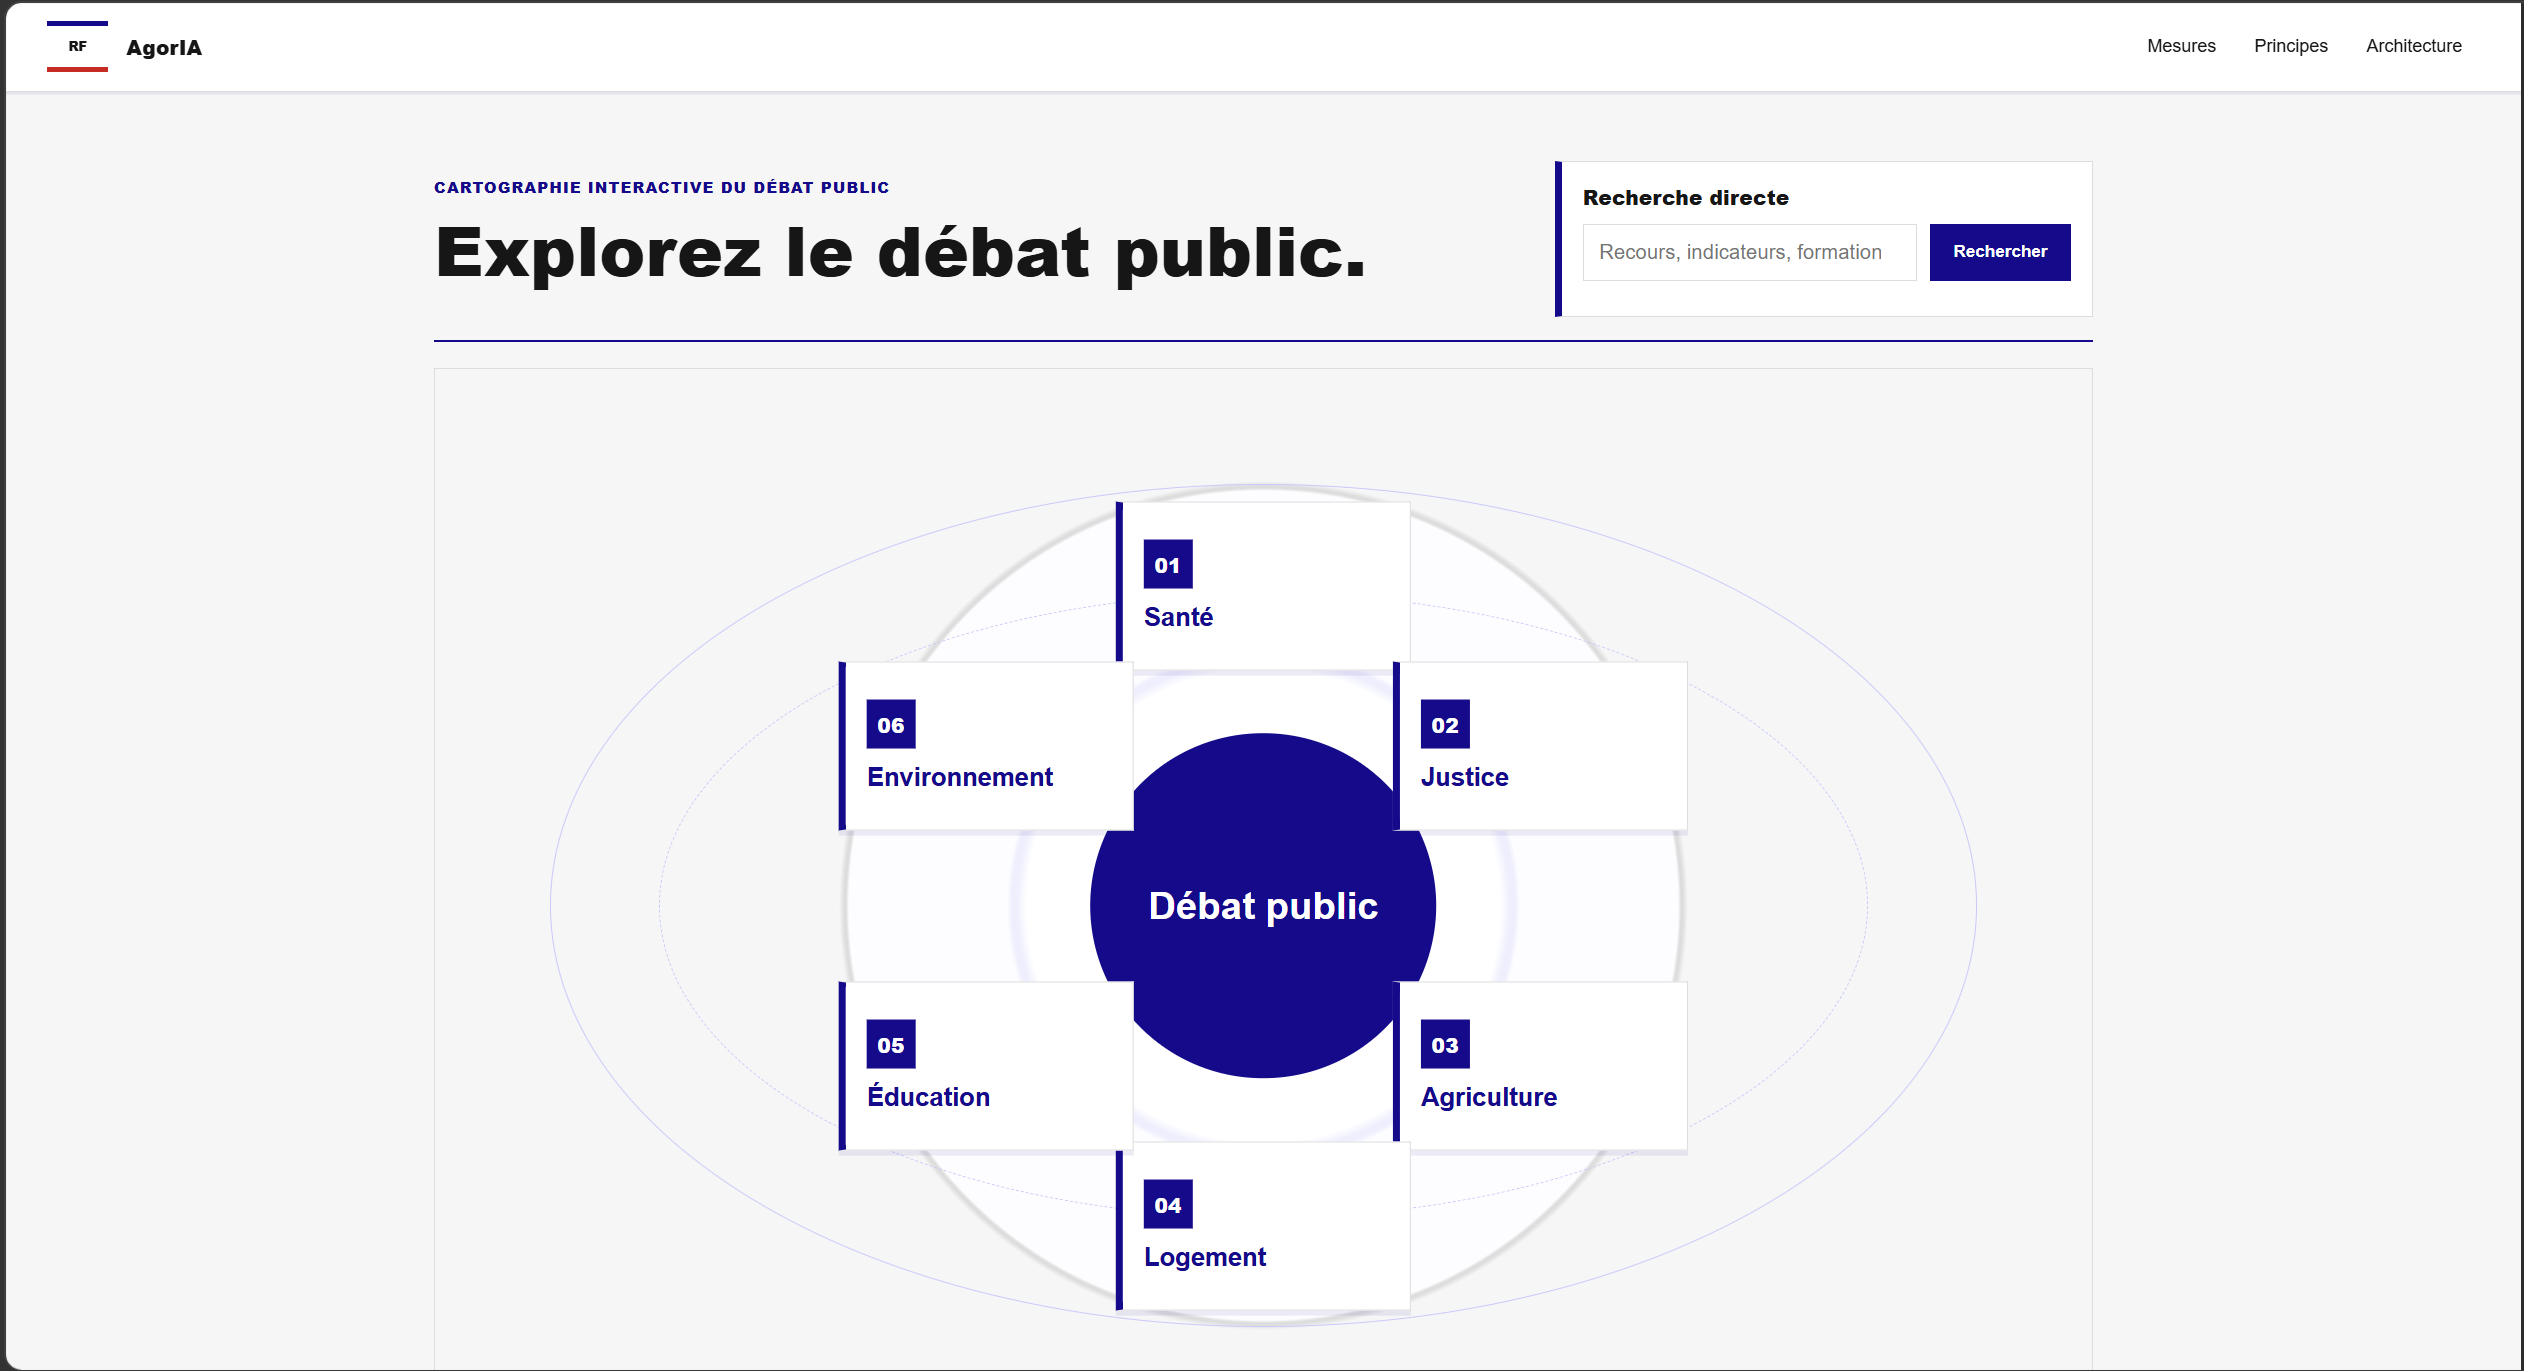
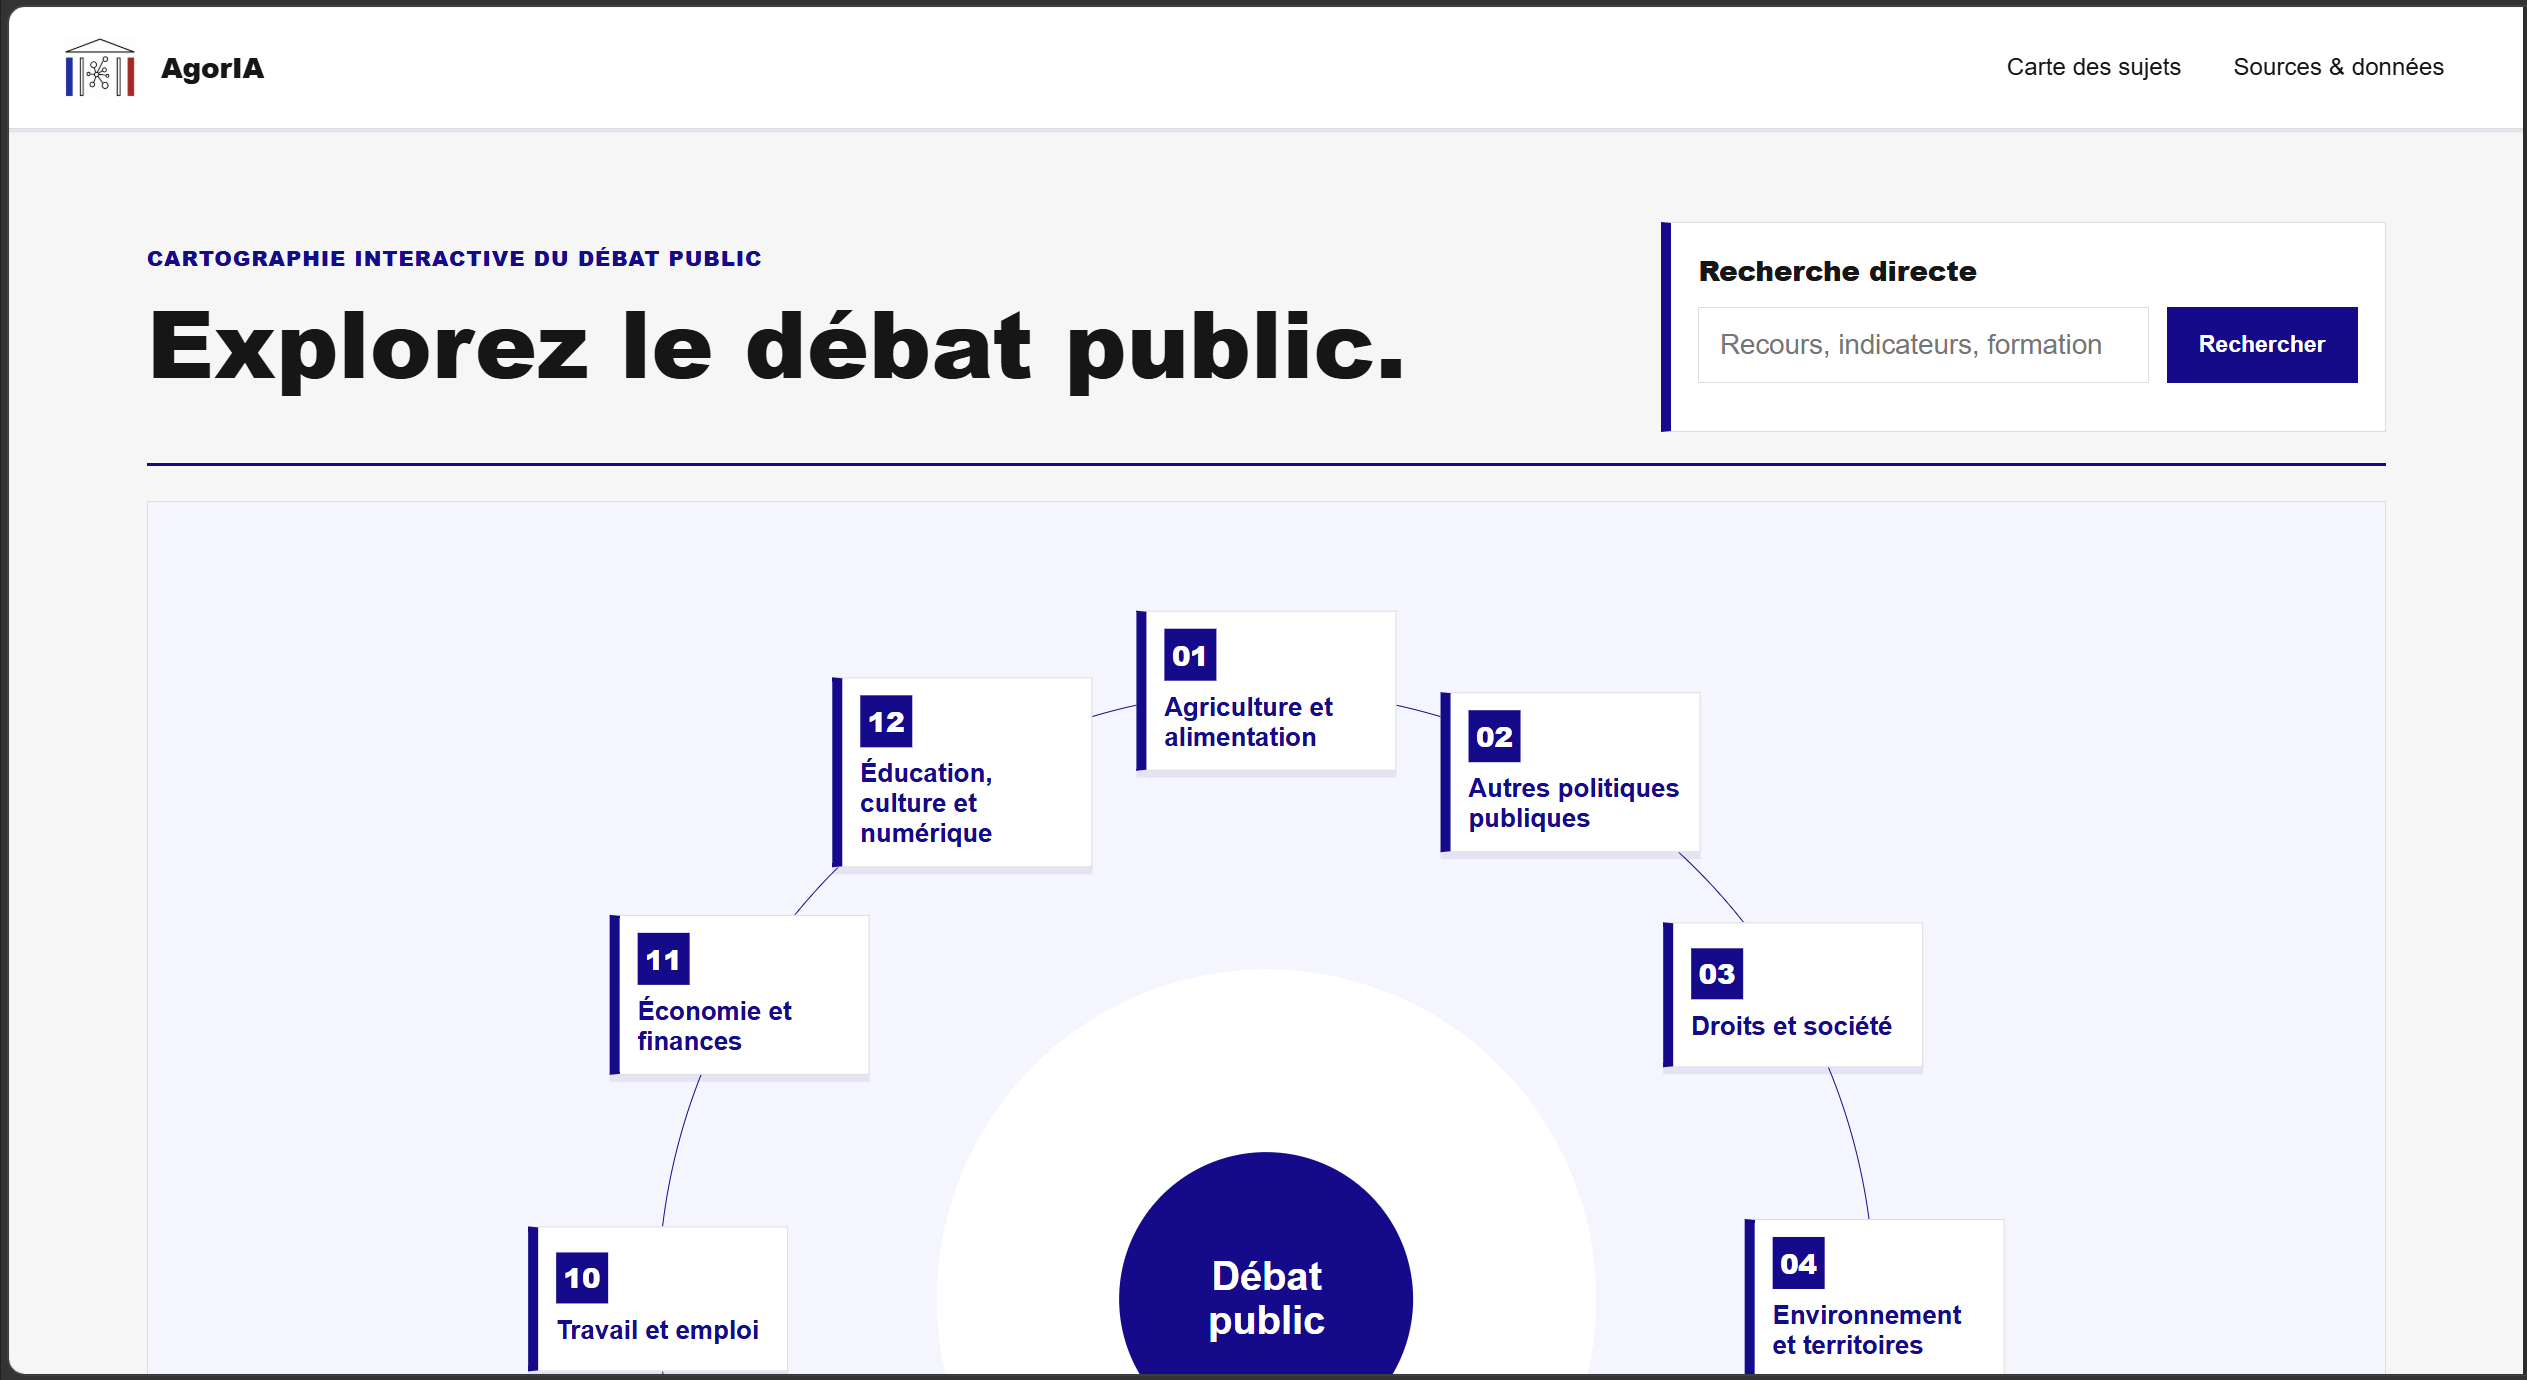
added cover in README

diff --git a/README.md b/README.md
@@ -1,5 +1,9 @@
 # AgorIA
 
+<p align="center">
+  <img src="images/cover.png" alt="Capture d’écran du prototype AgorIA" width="100%">
+</p>
+
 **AgorIA** est un prototype conçu pour le **hackathon de l’Assemblée nationale 2026**.
 
 Son objectif est de rendre les données parlementaires plus compréhensibles en transformant des sources institutionnelles publiques - questions au Gouvernement, dossiers législatifs, documents parlementaires, acteurs, réponses et citations - en une interface d’exploration claire des sujets politiques, des positions et des arguments.